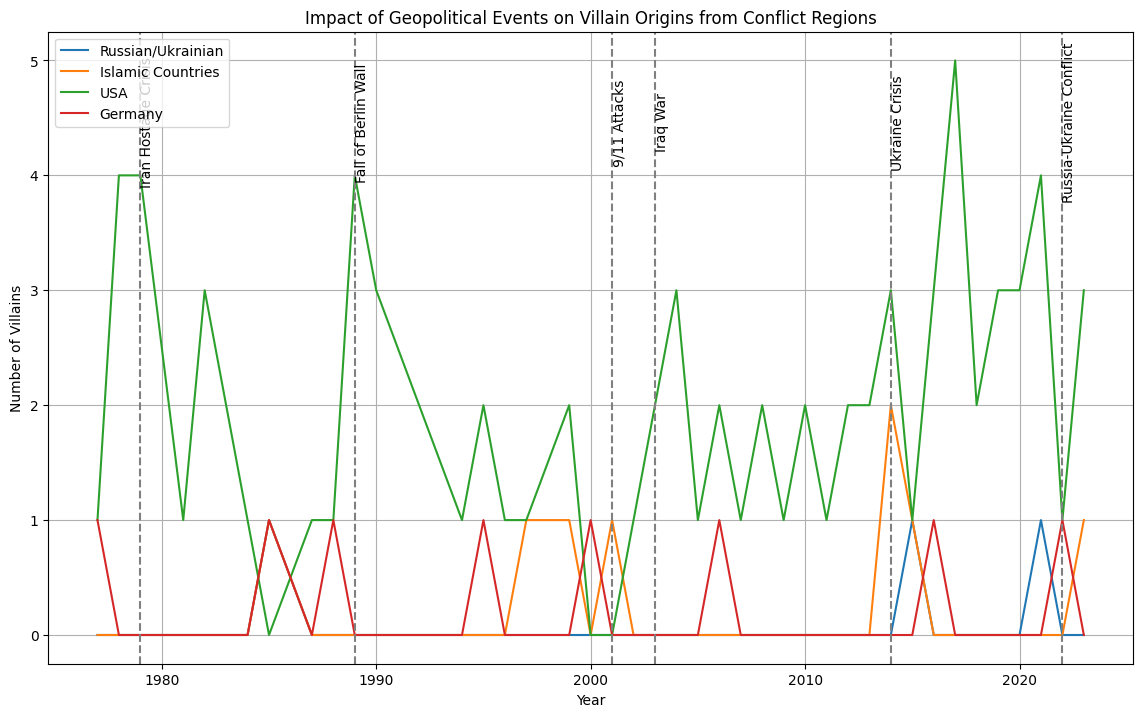
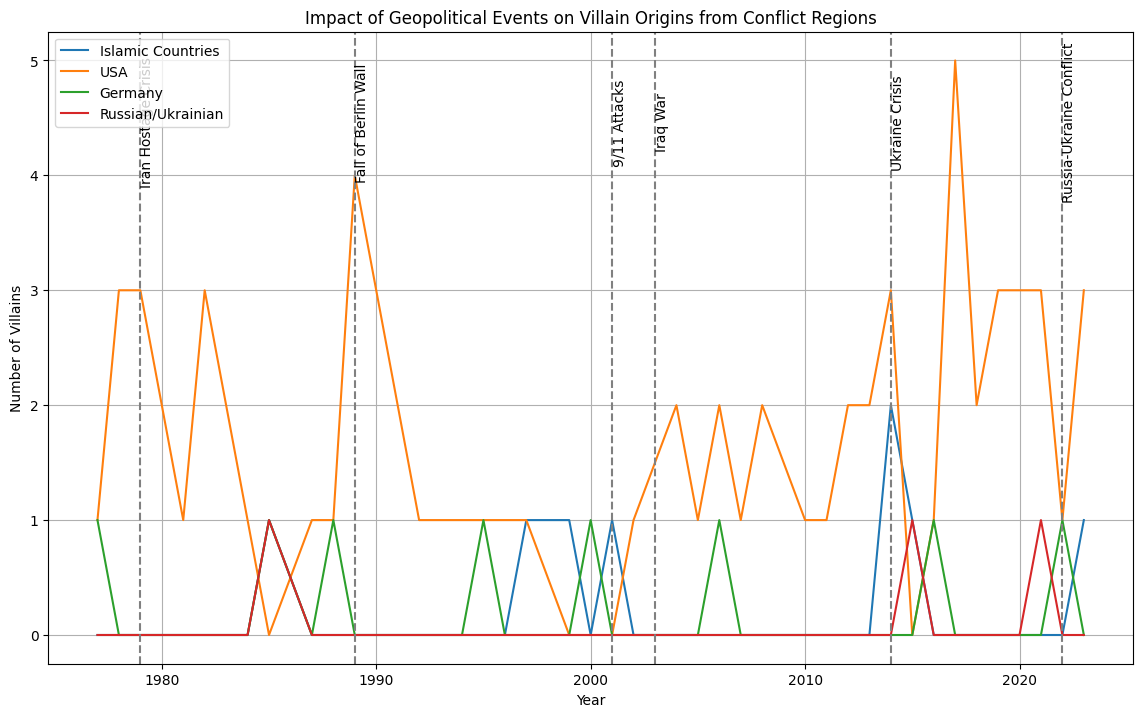
SHANANI'S REQUEST

diff --git a/Final Project/3-Villians Heatmap/Visualization_change_of_megama.py b/Final Project/3-Villians Heatmap/Visualization_change_of_megama.py
@@ -1,26 +1,33 @@
 import pandas as pd
 import matplotlib.pyplot as plt
+import re
 
 # Load the CSV file
 file_path = './output/top_10_box_office_movies_1977_2023_with_villains_origins.csv'
 df = pd.read_csv(file_path)
 
-# Define regions and their corresponding countries or locations based on the provided categories
+# Define regions and their corresponding countries or locations
 regions = {
-    'Islamic Countries': ['Iran', 'Iraq', 'Afghanistan', 'Syria', 'Pakistan', 'Saudi Arabia', 'Egypt', 'Turkey', 'Libya', 'Islamic'],
-    'USA': ['United States', 'USA', 'Gotham City', 'New York', 'California', 'Texas', 'Illinois', 'Los Angeles', 'Long Island', 'Boston', 'Amityville', 'Haddonfield', 'Metropolis', 'Amity Island', 'Smallville', 'Derry, Maine', 'Stark Industries', 'Canada', 'Toronto', 'Montreal'],
-    'Germany': ['Germany', 'West Germany', 'East Germany'],
-    'Russian/Ukrainian': ['Russia', 'USSR', 'Soviet Union', 'Ukraine', 'Stalingrad', 'Moscow', 'Kyiv']
+    'Islamic Countries': ['iran', 'iraq', 'afghanistan', 'syria', 'pakistan', 'saudi', 'egypt', 'turkey', 'libya',
+                          'islamic', 'arab'],
+    'USA': ['united states', 'usa', 'u.s.', 'america', 'gotham', 'new york', 'california', 'texas', 'illinois',
+            'los angeles', 'boston', 'amityville', 'haddonfield', 'metropolis', 'smallville', 'derry', 'maine'],
+    'Germany': ['germany', 'german', 'deutsch'],
+    'Russian/Ukrainian': ['russia', 'russian', 'ussr', 'soviet', 'ukraine', 'ukrainian', 'stalingrad', 'moscow', 'kyiv',
+                          'kiev']
 }
+
 
 # Assign each origin to a region
 def assign_region(origin):
-    for region, places in regions.items():
-        if any(place in origin for place in places):
+    origin_lower = str(origin).lower()
+    for region, terms in regions.items():
+        if any(re.search(r'\b' + re.escape(term) + r'\b', origin_lower) for term in terms):
             return region
     return 'Other'
 
-df['Region'] = df['Origin'].apply(lambda x: assign_region(str(x)))
+
+df['Region'] = df['Origin'].apply(assign_region)
 
 # Filter out rows where region is 'Other'
 df = df[df['Region'] != 'Other']
@@ -30,7 +37,7 @@ villain_counts = df.groupby(['Year', 'Region']).size().unstack(fill_value=0)
 
 # Part 1 & 2: Line Plot of Villain Trends by Region
 plt.figure(figsize=(14, 8))
-for region in ['USA', 'Germany', 'Islamic Countries', 'Russian/Ukrainian']:
+for region in regions.keys():
     if region in villain_counts.columns:
         plt.plot(villain_counts.index, villain_counts[region], label=region)
 
@@ -59,7 +66,7 @@ geopolitical_events = {
 df['Geopolitical_Event'] = df['Year'].apply(lambda x: geopolitical_events.get(str(x), None))
 
 # Filter data for countries with conflicts with the USA
-conflict_regions = ['Russian/Ukrainian', 'Islamic Countries', 'USA', 'Germany']
+conflict_regions = list(regions.keys())  # Use all defined regions
 df_conflict = df[df['Region'].isin(conflict_regions)]
 
 # Count villains in conflict regions by year
